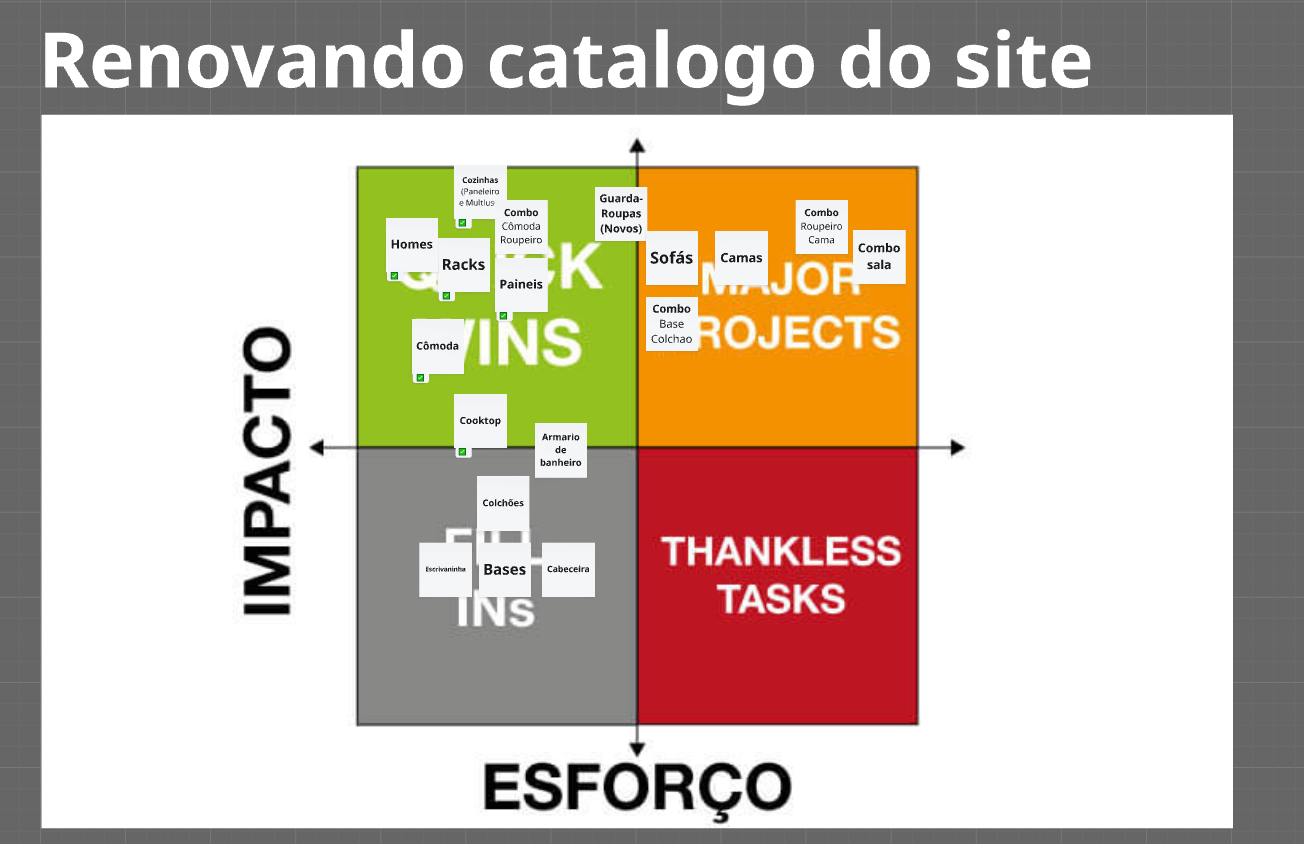
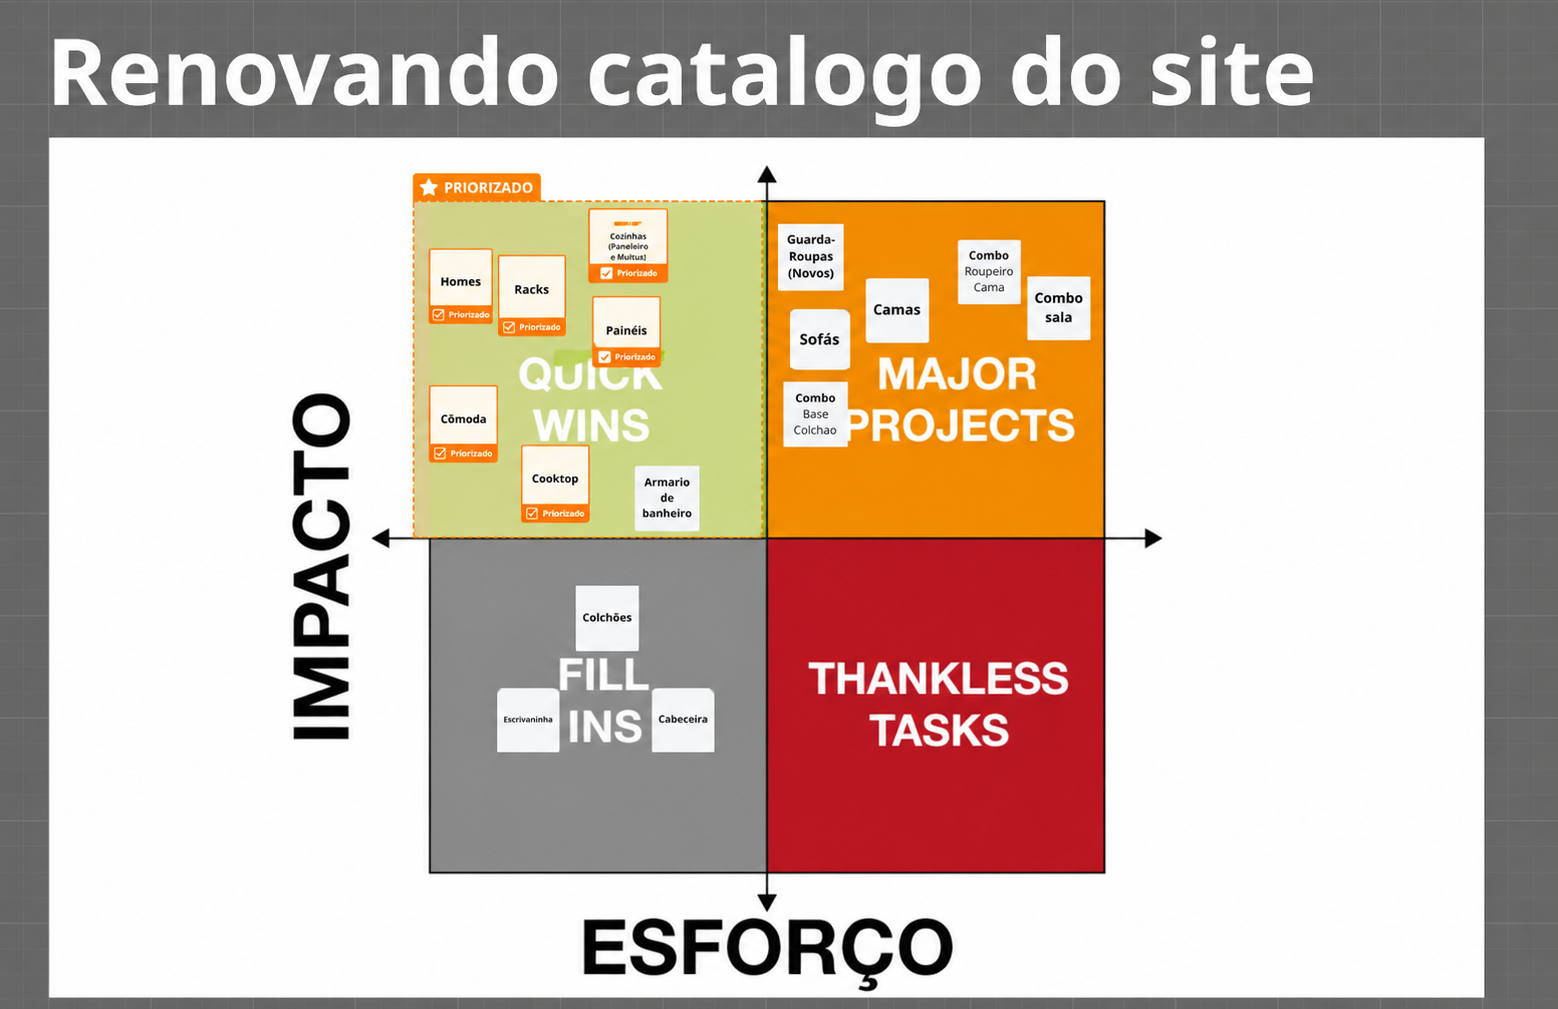
Update matriz-impacto asset and add Roadmap info-box to Artefato 05

Changed region(s): [[0.0307, 0.1232, 0.9509, 1.0], [0.0613, 0.0308, 0.8589, 0.1232]]

diff --git a/lance.html b/lance.html
@@ -1169,6 +1169,10 @@
               <h4 class="card-title">Priorização de Problemas</h4>
               <p class="card-desc">Backlog priorizado por score de 1 a 13. Algumas dessas oportunidades ainda estão no forno. O trabalho continua.</p>
               <figure><img src="assets/Prioriza%C3%A7%C3%A3o%20de%20problemas.png" alt="Priorização de problemas por score"></figure>
+              <div class="info-box accent" style="margin-top:1rem">
+                <p class="box-label">🗺 Roadmap</p>
+                <p>Os itens marcados com ✓ no backlog foram priorizados e já estão concluídos, implementados ao longo deste case. Os próximos no planejamento incluem campanhas de anúncio com produtos de ticket alto em formato de vídeo, o formato que mais converte para esse tipo de produto, com foco nas personas João &amp; Leticia, que buscam móveis de maior valor para montar o lar completo.</p>
+              </div>
             </div>
 
             <div>
